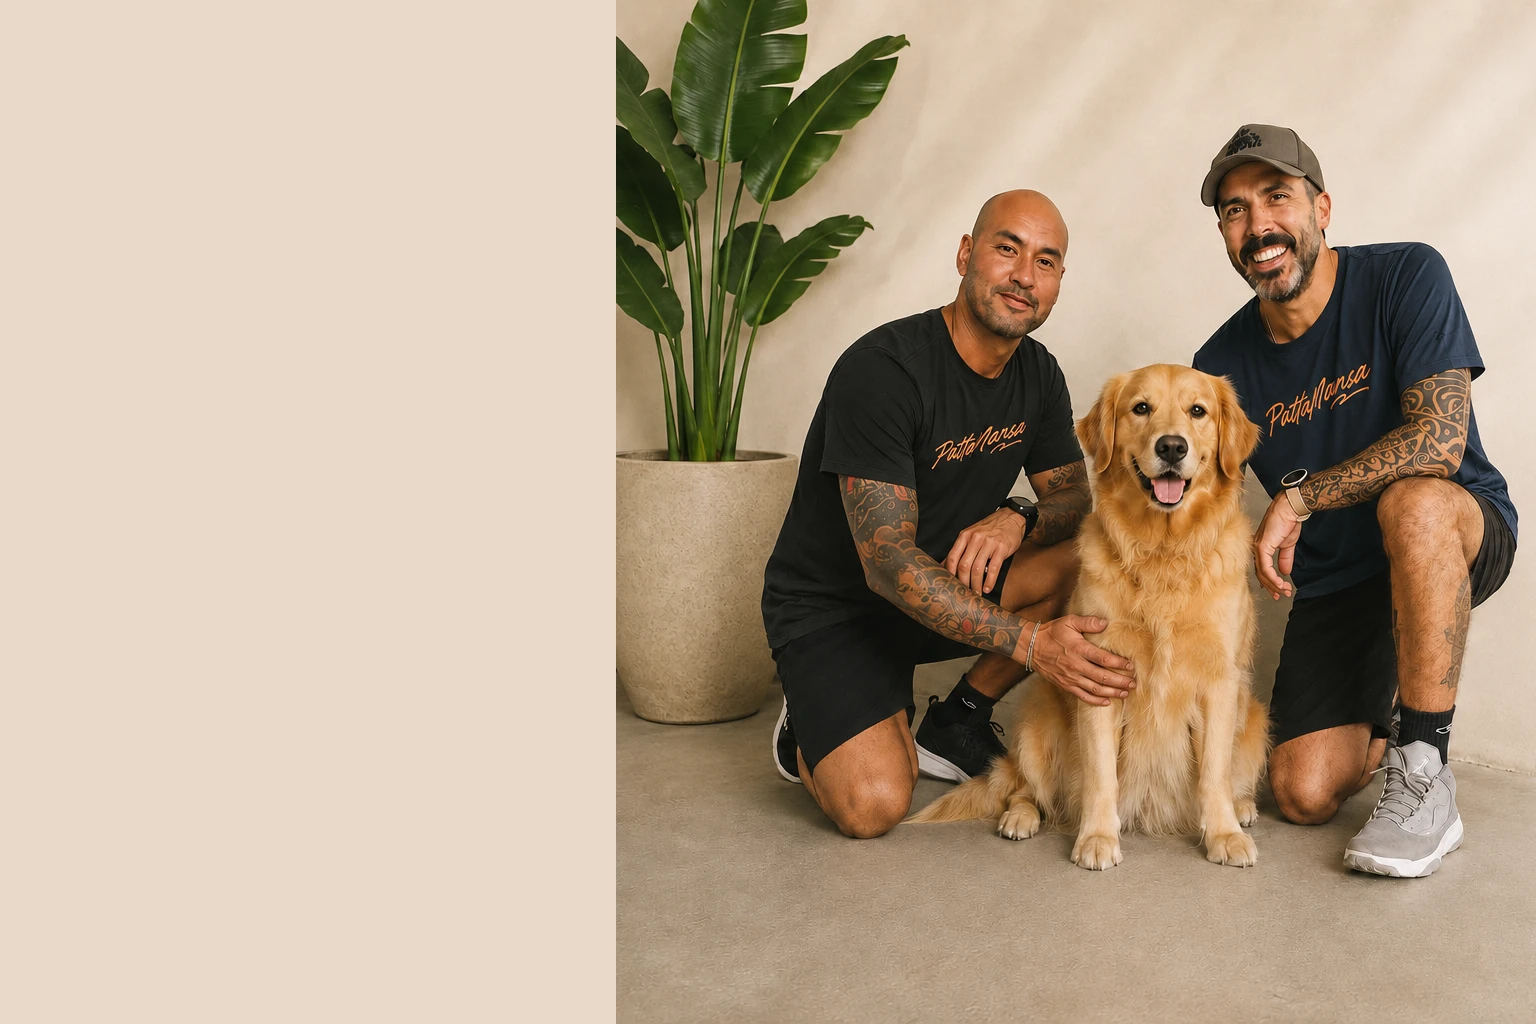
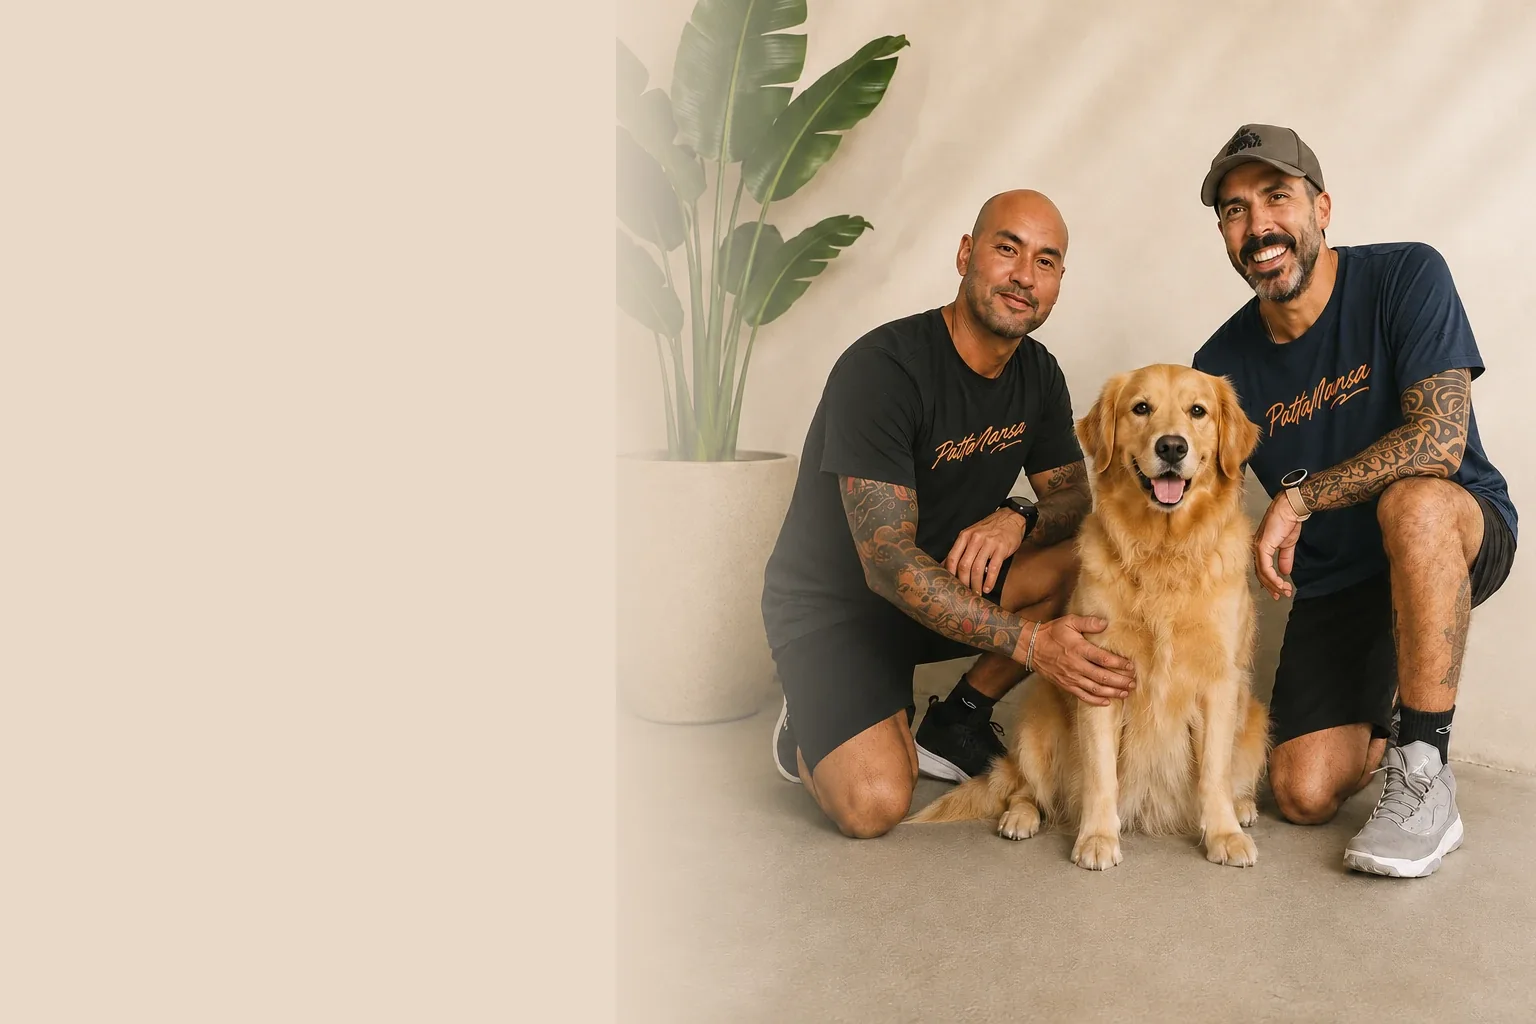
Fix desktop hero blend and header help menu styling

Changed region(s): [[0.375, 0.0, 0.5625, 1.0]]

diff --git a/pattamansa/shopify-theme/assets/theme.css b/pattamansa/shopify-theme/assets/theme.css
@@ -1142,6 +1142,18 @@ summary {
   font-weight: 800;
 }
 
+/* reset do estilo generico de <details> (FAQ) dentro do header */
+.site-header details {
+  border: none;
+  border-radius: 0;
+  background: transparent;
+  padding: 0;
+}
+
+.site-header summary {
+  font-weight: 500;
+}
+
 .final-cta__inner {
   display: grid;
   gap: 18px;
